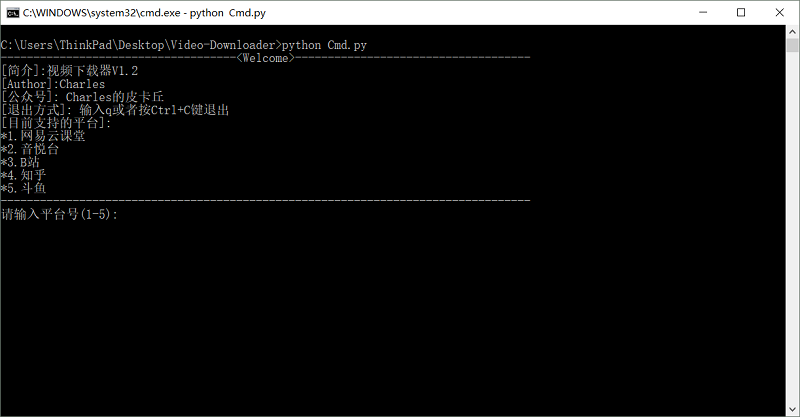
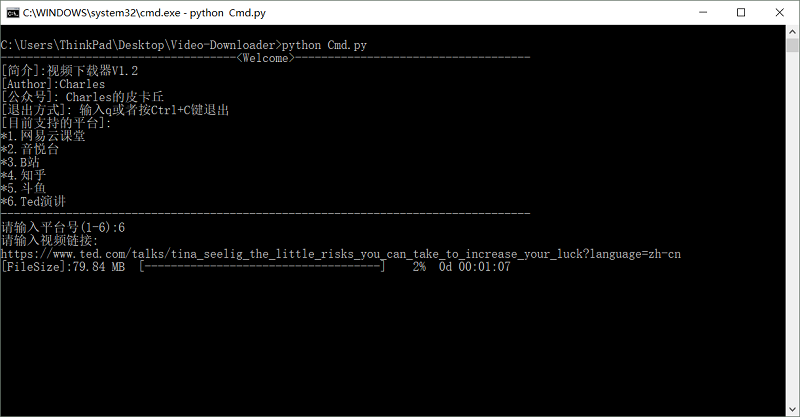
support ted talks

Changed region(s): [[0.0, 0.4676, 0.8438, 0.6547]]

diff --git a/platforms/ted.py b/platforms/ted.py
@@ -1,0 +1,99 @@
+# 作者：Charles
+# 公众号：Charles的皮卡丘
+# TED演讲视频下载:
+# 	-https://www.ted.com/talks?language=zh-cn
+import os
+import re
+import json
+import click
+import urllib
+import requests
+from contextlib import closing
+requests.packages.urllib3.disable_warnings()
+
+
+'''
+Input:
+	-url: 视频地址
+	-savepath: 视频下载后保存的路径
+	-app: 在cmd窗口运行还是在Demo中调用该类
+Output:
+	-返回下载响应码
+'''
+class ted():
+	def __init__(self):
+		self.headers = {
+						'User-Agent': 'Mozilla/5.0 (Windows NT 10.0; Win64; x64) AppleWebKit/537.36 (KHTML, like Gecko) Chrome/67.0.3396.99 Safari/537.36'
+					}
+	# 外部调用
+	def get(self, url, savepath='./videos', app='demo'):
+		Vurlinfos = self._getvideoinfos(url)
+		res = None
+		if app == 'cmd':
+			res = self._download_cmd(Vurlinfos, savepath)
+		elif app == 'demo':
+			res = self._download_demo(Vurlinfos, savepath)
+		return res
+	# Demo用
+	def _download_demo(self, Vurlinfos, savepath):
+		if not os.path.exists(savepath):
+			os.mkdir(savepath)
+		name = Vurlinfos[1]
+		download_url = Vurlinfos[0]
+		if not download_url:
+			return 404
+		try:
+			urllib.request.urlretrieve(download_url, os.path.join(savepath, 'ted_'+name+'.mp4'))
+			return 200
+		except:
+			with closing(requests.get(download_url, headers=self.headers, stream=True, verify=False)) as res:
+				if res.status_code == 200:
+					with open(os.path.join(savepath, 'ted_'+name+'.mp4'), "wb") as f:
+						for chunk in res.iter_content(chunk_size=1024):
+							if chunk:
+								f.write(chunk)
+				return res.status_code
+	# Cmd用
+	def _download_cmd(self, Vurlinfos, savepath):
+		if not os.path.exists(savepath):
+			os.mkdir(savepath)
+		name = Vurlinfos[1]
+		download_url = Vurlinfos[0]
+		if not download_url:
+			return 404
+		with closing(requests.get(download_url, headers=self.headers, stream=True, verify=False)) as res:
+			total_size = int(res.headers['content-length'])
+			if res.status_code == 200:
+				label = '[FileSize]:%0.2f MB' % (total_size/(1024*1024))
+				with click.progressbar(length=total_size, label=label) as progressbar:
+					with open(os.path.join(savepath, 'ted_'+name+'.mp4'), "wb") as f:
+						for chunk in res.iter_content(chunk_size=1024):
+							if chunk:
+								f.write(chunk)
+								progressbar.update(1024)
+			else:
+				print('[ERROR]:Connect error...')
+			return res.status_code
+	# 获得视频信息
+	def _getvideoinfos(self, url):
+		res = requests.get(url, headers=self.headers)
+		temp = '{' + re.findall(r'"__INITIAL_DATA__"\s*:\s*\{(.+)\}', res.text)[0] + '}'
+		temp_json = json.loads(temp)
+		title = temp_json['talks'][0]['title']
+		if not title:
+			title = 'vid' + str(temp_json['talks'][0]['downloads']['id'])
+		videos_dict = temp_json['talks'][0]['downloads']['nativeDownloads']
+		# 选择质量最好的视频下载
+		for quality in ['high', 'medium', 'low']:
+			if quality in videos_dict:
+				download_url = videos_dict[quality]
+				break
+		Vurlinfos = [download_url, title]
+		return Vurlinfos
+
+
+# 测试用
+if __name__ == '__main__':
+	url = 'https://www.ted.com/talks/tina_seelig_the_little_risks_you_can_take_to_increase_your_luck?language=zh-cn'
+	# ted().get(url, savepath='./videos', app='demo')
+	ted().get(url, savepath='./videos', app='cmd')

diff --git a/Demo.py b/Demo.py
@@ -8,6 +8,7 @@
 # 	B站: bilibili.bilibili()
 # 	知乎: zhihu.zhihu()
 # 	斗鱼: douyu.douyu()
+#	Ted演讲: ted.ted()
 import os
 import threading
 from platforms import *
@@ -33,6 +34,7 @@ class Download_Thread(threading.Thread):
 		# 	B站 -> '3'
 		# 	知乎 -> '4'
 		#	斗鱼 -> '5'
+		# 	Ted演讲 -> '6'
 		self.engine = None
 		self.url = None
 		self.savepath = './videos'
@@ -80,6 +82,15 @@ class Download_Thread(threading.Thread):
 				self.show_start_info()
 				try:
 					res = douyu.douyu().get(self.url, savepath=self.savepath, app='demo')
+					if res != 200:
+						raise RuntimeError('url request error...')
+				except:
+					self.show_parse_error()
+				self.show_end_info(savepath=self.savepath)
+			elif self.engine == '6':
+				self.show_start_info()
+				try:
+					res = ted.ted().get(self.url, savepath=self.savepath, app='demo')
 					if res != 200:
 						raise RuntimeError('url request error...')
 				except:
@@ -262,5 +273,5 @@ def Demo(options):
 
 
 if __name__ == '__main__':
-	options = ["1.网易云课堂", "2.音悦台", "3.B站", "4.知乎", "5.斗鱼"]
+	options = ["1.网易云课堂", "2.音悦台", "3.B站", "4.知乎", "5.斗鱼", "6.Ted演讲"]
 	Demo(options)

diff --git a/Cmd.py b/Cmd.py
@@ -8,6 +8,7 @@
 # 	B站: bilibili.bilibili()
 # 	知乎: zhihu.zhihu()
 # 	斗鱼: douyu.douyu()
+#	Ted演讲: ted.ted()
 from platforms import *
 
 
@@ -76,10 +77,18 @@ def Cmd(options, savepath = './videos'):
 			print('[INFO]: 视频下载完成，视频保存在{}...'.format(savepath))
 		except:
 			print('[Error]: 链接解析失败...')
+	elif choice == '6':
+		try:
+			res = ted.ted().get(url, savepath, app='cmd')
+			if res != 200:
+				raise RuntimeError('url request error...')
+			print('[INFO]: 视频下载完成，视频保存在{}...'.format(savepath))
+		except:
+			print('[Error]: 链接解析失败...')
 
 
 if __name__ == '__main__':
-	options = ["1.网易云课堂", "2.音悦台", "3.B站", "4.知乎", "5.斗鱼"]
+	options = ["1.网易云课堂", "2.音悦台", "3.B站", "4.知乎", "5.斗鱼", "6.Ted演讲"]
 	while True:
 		try:
 			Cmd(options)

diff --git a/platforms/__init__.py b/platforms/__init__.py
@@ -1,2 +1,2 @@
 # __init__
-__all__ = ['wangyiyun', 'yinyuetai', 'bilibili', 'zhihu', 'douyu']
+__all__ = ['wangyiyun', 'yinyuetai', 'bilibili', 'zhihu', 'douyu', 'ted']

diff --git a/README.md b/README.md
@@ -13,11 +13,7 @@ You can star this repository to keep track of the project if it's helpful for yo
 - [x] [Bilibili](https://www.bilibili.com/) → [Url Example](https://www.bilibili.com/video/av26443123?spm_id_from=333.338.__bofqi.13)
 - [x] [Zhihu](https://www.zhihu.com/) → [Url Example](https://www.zhihu.com/question/21395276/answer/425130152)
 - [x] [Douyu](https://www.douyu.com/) → [Url Example](https://v.douyu.com/show/8KxjMdB3GQQvVLwb)
-- [ ] Imooc
-- [ ] Tengxun
-- [ ] Iqiyi
-- [ ] YouTube
-- [ ] Youku
+- [x] [Ted](https://www.ted.com/talks?language=zh-cn) → [Url Example](https://www.ted.com/talks/tina_seelig_the_little_risks_you_can_take_to_increase_your_luck?language=zh-cn)
 ### not in Downloader:
 - [x] [Douyin](https://github.com/CharlesPikachu/Video-Downloader/tree/master/not_in_downloader/douyin)
 
@@ -46,7 +42,7 @@ Version: V1.1
 Support downloading zhihu video.
 ### 2018-08-21:
 Version: V1.2  
-Support downloading douyu video.
+Support downloading douyu and ted video.
 
 # Running Screenshot:
 ### Demo.py:
